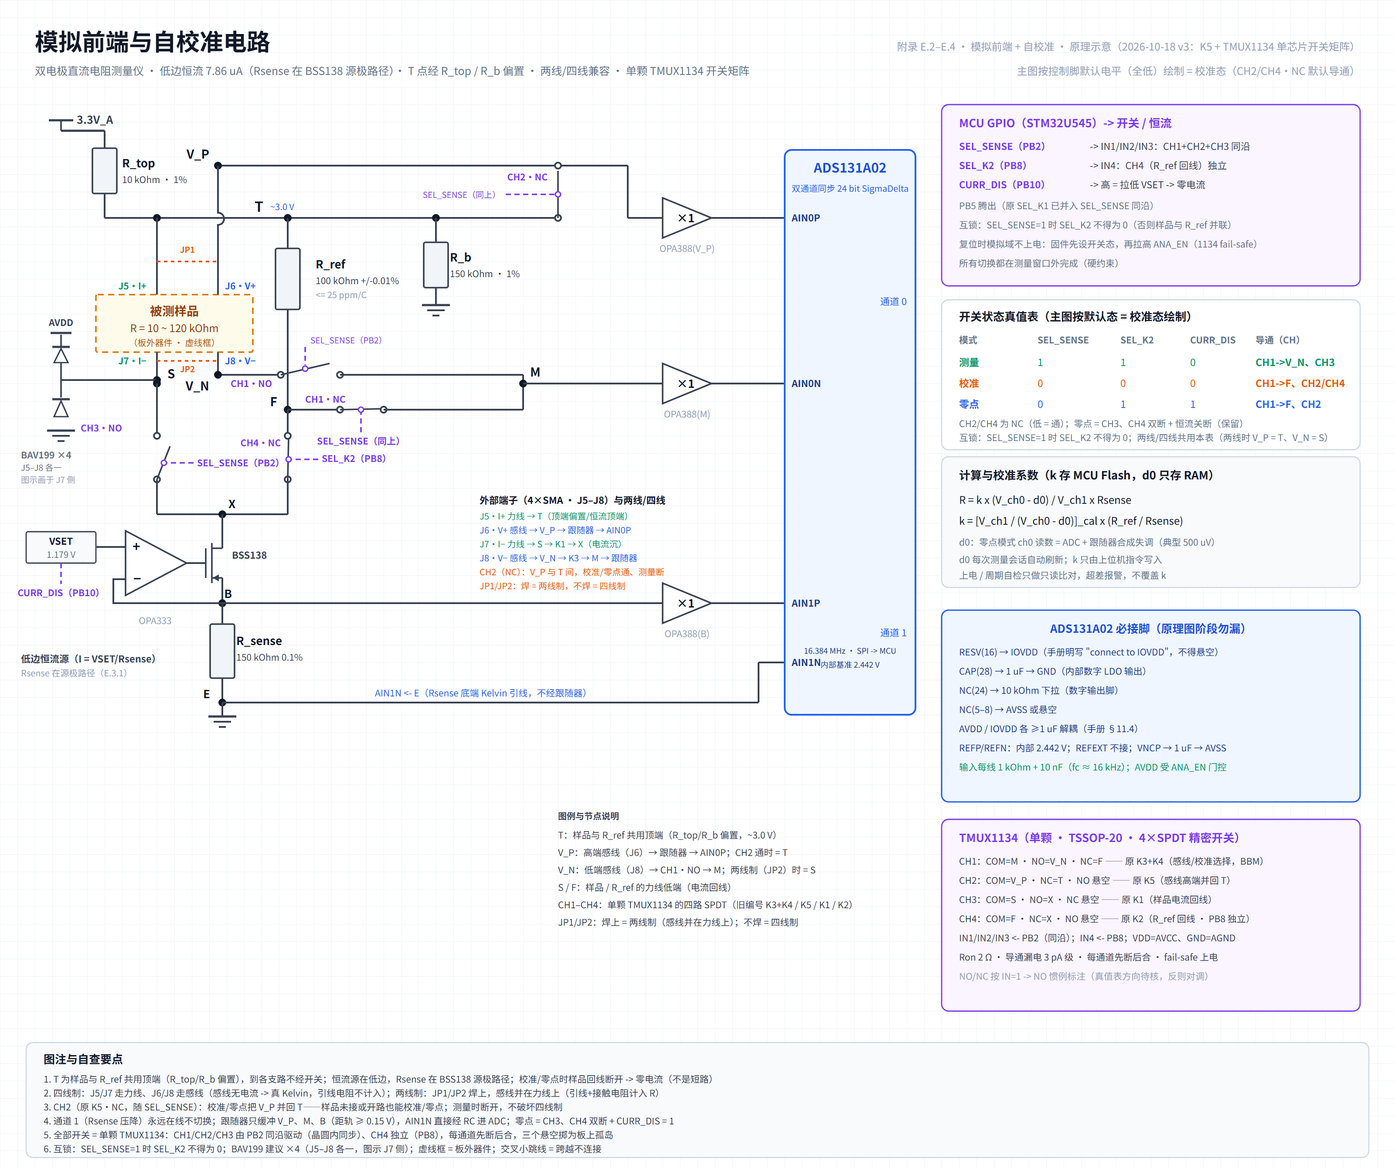
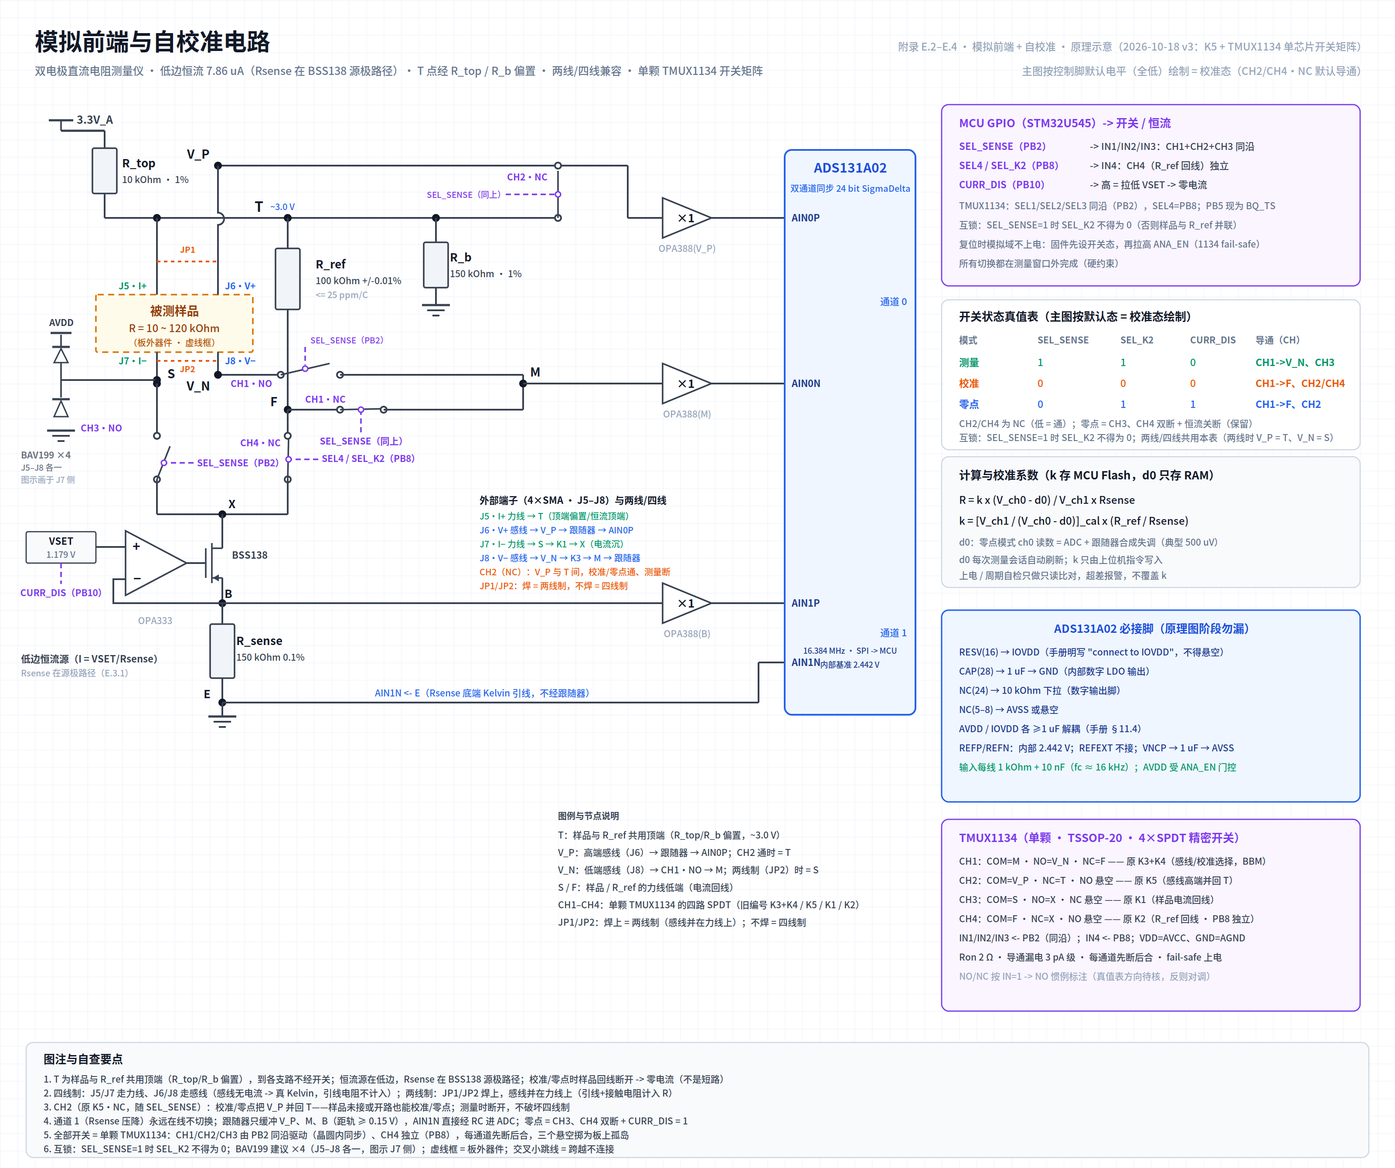
docs: 引脚二次重排与抗混叠 B 案全局回填——消除旧值残留
权威源：docs/design/pin-assignment.md（2026-10-20 v3 + 同日二次重排）、E.4.4（AAF B 案）

引脚回填（旧 PA8/PA9/PA10 → PA1/PA2/PA3；LPUART1 → USART1）：
- pin-assignment.md 自身：§2 ADS131A02 引脚表（DRDY/nRESET/DONE 三条仍是
  旧 PA9/PA8/PA10，与 §1.1 矛盾）+ §5 ADS_DONE(PA10→PA1)、USB 撤销注记
- CUBEMX_SETUP.md：§2.2 LPUART1 整节改为 USART1(PA9/PA10, AF7)；§3.4 NVIC
  EXTI9_8→EXTI3、LPUART1→USART1；§4.1 ADC_nRESET PA8→PA2、PB5 SEL_K1→BQ_TS；
  §4.2 ADC_DRDY PA9→PA3、新增 PA1 ADC_DONE；§4.3 复用表；§4.4 不配置表
- AGENTS.md / HANDOFF.md / docs/design/README.md / 根 README.md：引脚速览、
  示意图状态说明、待办 #10
- 示意图：整体方案框图（PA9(DRDY)→PA3、SEL_K1/SEL_K2→SEL1-3/SEL4、
  TMUX110x×4→TMUX1134×1、K1–K4 整合说明）、模拟前端与自校准（SEL4 标注、
  TMUX1134 说明）；两图 svg_schematic_check 均 PASS，@2x.png 重渲染

TMUX1134 整合回填（2026-10-18 既成定稿，文档仍写分立方案）：
- 主文档 E.3.1/E.3.2：器件表改单颗 TMUX1134（SEL1/2/3=PB2、SEL4=PB8），
  模式表列名同步，原 TMUX1101/1102 行保留删除线备查
- sim README 真实器件模型表同步

抗混叠 B 案回填（旧 1 kΩ+10 nF 已废）：
- pin-assignment §2 加 B 案三级阶梯注（6.19+68n→6.04+68n→13.7+27n+12n 差分，
  fc≈80 kHz，R·C 异向配对 BOM 工序）；§4 J6 注
- HANDOFF 前端段、docs/design/README 图注（抗混叠已另立专图）

fs2 群时延复核：旧 15 µs 基于 1k+10n（τ=10 µs）；B 案 Σ R·C≈1.2 µs 小一个
数量级，15 µs 仍偏保守，±0.045% 幅度结论与 AAF 参数无关（比值抵消）→ 无需重跑

diff --git a/docs/design/pin-assignment.md b/docs/design/pin-assignment.md
@@ -58,7 +58,7 @@
 | | **PB5** | BQ_TS | Q1(BSS138) 栅极门控：**高 = 旁路 TS 的 NTC**（无 NTC 电池可充电），默认低（R13 100 kΩ 下拉）= NTC 使能；**2026-10-20 新增（SEL_K1 腾出转予）** |
 | | PB4 | ISET_HI | BQ24040 充电电流切换（500 mA ↔ 1 A），默认**低**；判据见 E.8.4 勘误。⚠ **复位期不是低**：Table 27 **注 4** 说 PB4 复位后为 NJTRST 复用**且内部上拉使能**（高阻+上拉，上拉阻值 DS14216 未载）→ "复位默认 500 mA"须由**外部下拉（明显强于内部上拉）或反相驱动**保证，**原理图阶段必核**（见 E.8.4） |
 | **USB FS（Device，外设 USB_DRD_FS）** | PA11 / PA12 | DM / DP | AF10 固定复用，FT_u 由 VDDUSB 供电；设备模式片内支持 BC1.2 BCD（DS14216 §3.47，见主文档 E.8.4） |
-| | ~~PA9~~ | ~~VBUS~~ | ❌ **撤销**：本芯片 USB 无 VBUS sensing（CubeMX 无此项）；PA9 已改作 ADC_DRDY（见上） |
+| | ~~PA9~~ | ~~VBUS~~ | ❌ **撤销**：本芯片 USB 无 VBUS sensing（CubeMX 无此项）；PA9 现为 USART1_TX（见下） |
 | **I²C1（TMP117 四线探头）** | PB6 / PB7 | SCL / SDA | AF4，4.7 kΩ 上拉在主板侧 |
 | | ~~PB8~~ | ~~ALERT~~ | ❌ 取消（探头仅 VDD/GND/SDA/SCL），PB8 转予 SEL_K2 |
 | **调试日志（USART1）** | **PA9 / PA10** | USART1 TX / RX | AF7；**2026-10-20 由 LPUART1(PA2/PA3) 改**——与 SWD(PA13/14)、SWO(PB3) 同侧组成右侧调试区，J3 扩为 8P；115200。**U545 无 USART2** 不受影响（USART1 独立存在，DS14216 §3.32） |
@@ -121,17 +121,24 @@
 
 | 引脚 | 连接 | 说明 |
 | --- | --- | --- |
-| AIN0P | OPA388(T) 输出 → 1 kΩ + 10 nF | 通道 0 正：T 点电压 |
-| AIN0N | OPA388(S) 输出 → 1 kΩ + 10 nF | 通道 0 负：S 点电压（经 K3） |
-| AIN1P | OPA388(B) 输出 → 1 kΩ + 10 nF | 通道 1 正：B 点电压 |
-| AIN1N | E 点（Rsense 底端）→ 1 kΩ + 10 nF | 通道 1 负：Kelvin 引线，不经跟随器 |
+| AIN0P | OPA388(T) 输出 → **AAF B 案**（见下注） | 通道 0 正：T 点电压 |
+| AIN0N | OPA388(S) 输出 → **AAF B 案** | 通道 0 负：S 点电压（经 K3） |
+| AIN1P | OPA388(B) 输出 → **AAF B 案** | 通道 1 正：B 点电压 |
+| AIN1N | E 点（Rsense 底端）→ **AAF B 案** | 通道 1 负：Kelvin 引线，不经跟随器 |
 | SCLK | PA5（SPI1 SCLK） | — |
 | DIN | PA7（SPI1 MOSI） | — |
 | DOUT | PA6（SPI1 MISO） | — |
 | nCS | PA4（GPIO） | — |
-| DRDY | **PA9**（EXTI9） | 下降沿中断（**二轮复核改**：原 PC4 未引出） |
-| DONE | **PA10**（GPIO 输入，可选） | 通信帧完成指示，低有效输出；异步中断模式下可不接用（**2026-10-20 新增**） |
-| nRESET | **PA8**（GPIO） | 低有效，脉宽 ≥800 ns |
+| DRDY | **PA3**（**EXTI3**） | 下降沿中断，内部上拉（**2026-10-20 二次重排**：原 PA9；EXTI0/1/15 已占，EXTI3 空闲） |
+| DONE | **PA1**（GPIO 输入，可选） | 通信帧完成指示，低有效输出；异步中断模式下可不接用（**2026-10-20 二次重排**：原 PA10） |
+| nRESET | **PA2**（GPIO） | 低有效，脉宽 ≥800 ns（**2026-10-20 二次重排**：原 PA8） |
+
+> **每线抗混叠 = AAF B 案三级无源阶梯（E.4.4 定版，2026-10-19）**：
+> `6.19 Ω + 68 nF → 6.04 Ω + 68 nF → 13.7 Ω + 27 nF（对地，C0G）+ 末级 12 nF 差分`；
+> R 全 E96 1%（ΣR=25.93 Ω），fc ≈ 80 kHz，建立 ≤30.1 µs（73 Ω–600 kΩ 十六点）。
+> **两线须按 R·C 乘积异向配对**（R×(1+m) 配 C×(1−m)）：1% 单体不配对 CMRR 仅 48.5 dB、配对后 95.5 dB——
+> **BOM 必须加配对工序**。定版图 `docs/design/diagram/抗混叠滤波电路.svg`。
+> ~~原 1 kΩ + 10 nF（fc 15.9 kHz）~~ 已作废：与 16 kHz 扫频上限重叠，通带边缘衰减 ~3 dB。
 | XTAL1 / XTAL2 | 16.384 MHz 晶振 | 负载电容按手册 Figure 36b |
 
 ### 必接脚（原理图阶段勿漏）
@@ -202,7 +209,7 @@ RON ≈90 mΩ typ / 110 mΩ max @3.6 V·25 ℃ → 100 mA 写瞬态压降 ≤11 
 | 端子 | 网络 | 说明 |
 | --- | --- | --- |
 | **J5 · I+** | T（顶端偏置 ~3.0 V） | 经 R_top 10 kΩ 接 3.3V_A；**力线** |
-| **J6 · V+** | OPA388(T) 输入（经 1 kΩ+10 nF） | **感线**；与 J5 同夹 = Kelvin 夹 A |
+| **J6 · V+** | OPA388(T) 输入（经 AAF B 案） | **感线**；与 J5 同夹 = Kelvin 夹 A |
 | **J7 · I−** | K1/K2 公共端 → X | **力线**回线（样品 / R_ref） |
 | **J8 · V−** | K3/K4 公共端 → M | **感线**；与 J7 同夹 = Kelvin 夹 B |
 | **JP1** | J5 ↔ J6 | 0 Ω 0603 / 插针：**焊上 = 两线制**（只接 J5、J7） |
@@ -258,7 +265,7 @@ RON ≈90 mΩ typ / 110 mΩ max @3.6 V·25 ℃ → 100 mA 写瞬态压降 ≤11 
 | VSET | 360 kΩ/200 kΩ 分压 | OPA333 + → BSS138 Gate | 1.179 V |
 | CURR_DIS | PB10 | BSS138 关断控制 | 高 = 关断（EDA 网名 `CURR` 建议改 `CURR_DIS`） |
 | **BQ_TS** | **PB5** | Q1(BSS138) 栅极 | 高 = 旁路 TS NTC（无 NTC 电池可充电）；默认低 = NTC 使能（R13 100 kΩ 下拉）；**2026-10-20 新增** |
-| **ADS_DONE** | U7-18 → **PA10** | 帧完成指示（可选） | 低有效输出，可不接用；**2026-10-20 新增** |
+| **ADS_DONE** | U7-18 → **PA1** | 帧完成指示（可选） | 低有效输出，可不接用；**2026-10-20 新增，二次重排后落 PA1** |
 | ANA_EN | **PB15** | TPS7A2033 EN | 高 = 模拟域上电（**二轮复核改**：原 PB12 未引出） |
 | **SD_PWR_EN** | **PB13** | **TPS22917 EN** | 高 = TF 卡上电，默认低（EN 内置下拉，复位浮空 = 断电） |
 | **VBUS_MON** | VBUS 分压中点 | **PC1**（ADC） | 比 0.5；阈值 3.70 V |

diff --git a/firmware/DE-DRM/CUBEMX_SETUP.md b/firmware/DE-DRM/CUBEMX_SETUP.md
@@ -83,18 +83,19 @@
   - NSS：**Disabled (Software)** ← 片选走 PA4 GPIO
   - NSSP Mode：Disabled
 
-### 2.2 LPUART1 — 调试日志（🟥 当前 IOC 完全没有）
+### 2.2 USART1 — 调试日志（🟥 当前 IOC 完全没有）
 
-- [ ] Mode：**Asynchronous**（自动占 PA2/PA3）
+- [ ] Mode：**Asynchronous**（自动占 **PA9/PA10**）
 - [ ] Baud Rate **115200** / Word Length 8 / Stop 1 / Parity None / Flow Control None / Mode TX/RX
-- [ ] ⚠ **是 LPUART1 不是 USART2**：**U545 全片无 USART2**（DS14216 §3.32：USART1/3 + UART4/5 + LPUART1），
-  PA2/PA3 上是 LPUART1_TX/RX（AF8）；LPUART 在 Stop 模式也可唤醒
+- [ ] ⚠ **2026-10-20 二次重排：由 LPUART1(PA2/PA3) 改为 USART1(PA9/PA10, AF7)**——与 SWD(PA13/14)、
+  SWO(PB3) 同侧组成右侧调试区，J3 由 6P 扩为 8P（§ 4 J3 表）；PA2/PA3 让给 ADC_nRESET/ADC_DRDY。
+  原 LPUART1 配置作废，GUI 里**删除 LPUART1、新增 USART1**。
 
 ### 2.3 USB（USB_DRD_FS）— Type-C 数据上行（🟥 当前 IOC 完全没有）
 
 - [ ] Mode：**Device only**（外设为 USB_DRD_FS，device/host 双角色；本设计用 device）
 - [ ] 引脚自动占用：**PA11(DM) / PA12(DP)**
-- [ ] **SOF 不占引脚**：CRS 用**内部 SOF 信号**同步（E.10 #15 已销号）；PA8=ADC_nRESET 无冲突
+- [ ] **SOF 不占引脚**：CRS 用**内部 SOF 信号**同步（E.10 #15 已销号）；PA8 已转预留、ADC_nRESET=PA2，无冲突
 - [ ] **VBUS sensing：无此选项**（STM32U5 的 USB 不提供；勿再找）
   → USB 在线检测改走 **PC1 的 ADC**（见 § 2.6）
 - [ ] **BC1.2 BCD**：U545 设备模式**片内支持**（DS14216 §3.47 末条）——E.8.4 的 DCP 判 1 A 依赖它；
@@ -169,10 +170,10 @@
 |---|---|---|---|
 | **EXTI15_10** | ✓ | **4** | PA15 SD_CD |
 | **SDMMC1** | ✓ | **4** | 持续写吞吐敏感，优先级最高 |
-| EXTI9_8 | ✓ | 5 | PA9 ADC_DRDY |
+| **EXTI3** | ✓ | 5 | PA3 ADC_DRDY |
 | SPI1 | ✓ | 6 | ADS131A02 |
 | I2C1 event / error | ✓ | 7 | TMP117 |
-| LPUART1 | ✓ | 8 | 调试日志 |
+| **USART1** | ✓ | 8 | 调试日志（PA9/PA10, AF7） |
 | USB | ✓ | 9 | USB（USB_DRD_FS） |
 | ADC1 | ✓ | 10 | 电池/VBUS 监测 |
 | SysTick | ✓ | **15** | HAL 时基，最低 |
@@ -192,10 +193,10 @@
 | 引脚 | Label | Pin state | 备注 |
 |---|---|---|---|
 | PA4 | ADC_nCS | **High** | 片选空闲高 |
-| 🆕 **PA8** | **ADC_nRESET** | **High** | **原 PB0**；低有效，脉宽 ≥800 ns |
+| 🆕 **PA2** | **ADC_nRESET** | **High** | **原 PB0→PA8→PA2**（2026-10-20 二次重排，就近 ADC 簇）；低有效，脉宽 ≥800 ns |
 | PB2 | SEL_SENSE | **Low** | TMUX 测量线对 |
 | PB4 | ISET_HI | **Low** | 500 mA 默认充电电流。🟥 **复位期不是 Low**：DS14216 Table 27 **注 4** —— PB4 复位后为 NJTRST 复用**且内部上拉使能**（高阻+上拉），到固件初始化才变 Low；**CubeMX 里勾 Low 只决定初始化后的电平，管不到上电瞬间**。故"复位默认 500 mA"须靠**外部下拉（明显强于内部上拉，阻值待 RM0456 给 RPU 后定）**或反相驱动保证 → 见主文档 E.8.4 与 § 8 排障 |
-| 🆕 **PB5** | **SEL_K1** | **Low** | **原 PC5**；K1（NO），高 = 通 |
+| 🆕 **PB5** | **BQ_TS** | **Low** | **原 SEL_K1 已取消**（TMUX1134 整合）；Q1 栅极门控：高 = 旁路 TS NTC，默认低（R13 100 kΩ 下拉）= NTC 使能 |
 | PB10 | CURR_DIS | **Low** | 高 = 关断；复位默认开启 |
 | 🆕 **PB15** | **ANA_EN** | **Low** | **原 PB12**（LQFP64_SMPS 未引出）；TPS7A2033 EN；smart pulldown，复位即断模拟域 |
 | 🆕 **PB13** | **SD_PWR_EN** | **Low** | **TF 卡默认断电**（省 50–100 µA）；仅 `f_mount`/sync 后才允许拉低 |
@@ -217,7 +218,8 @@
 |---|---|---|---|---|
 | PA0 | MEAS_BTN | **GPXTI0** | **Pull-up** | Falling |
 | PB1 | PWR_BTN | **GPXTI1** | **Pull-up** | Falling |
-| 🆕 **PA9** | **ADC_DRDY** | **GPXTI9** | **Pull-up** | **Falling**（DRDY 拉低 = 数据就绪；**原 PC4 未引出**；PA1 因 EXTI1 被 PB1 占用出局） |
+| 🆕 **PA3** | **ADC_DRDY** | **GPXTI3** | **Pull-up** | **Falling**（DRDY 拉低 = 数据就绪；**2026-10-20 二次重排**，原 PC4→PA9→PA3；EXTI0/1/15 已占，EXTI3 空闲已核） |
+| 🆕 **PA1** | **ADC_DONE** | **GPIO_Input** | **No Pull** | —（U7-18 DONE 帧完成指示，低有效，可选监视；**2026-10-20 新增，二次重排后落 PA1**） |
 | 🆕 **PA15** | **SD_CD** | **GPXTI15** | **Pull-up** | Falling（插卡拉低；**原 PB9 未引出**；PA15 复位默认 JTDI，SWD 模式可作 GPIO；Table 27 注 4 说它复位期**内部上拉已使能**，与本设计所需方向一致，无冲突） |
 
 > 🟥 **PA0 / PB1 当前 IOC 没设 Pull-up → CubeMX 黄灯**。
@@ -230,7 +232,7 @@
 
 | 引脚 | 信号 | 来自 |
 |---|---|---|
-| PA2 / PA3 | LPUART1_TX/RX（AF8） | § 2.2 |
+| **PA9 / PA10** | **USART1_TX/RX（AF7）** | § 2.2（2026-10-20 由 LPUART1 改，J3 扩 8P） |
 | PA5 / PA6 / PA7 | SPI1_SCK/MISO/MOSI | § 2.1 |
 | PA11 / PA12 | USB_DM/DP（USB_DRD_FS） | § 2.3 |
 | PA13 / PA14 / PB3 | SWDIO / SWCLK / SWO | § 3.1 |
@@ -242,7 +244,7 @@
 
 ### 4.4 不配置（保持 Reset State 即正确）
 
-PA1（WKUP3 预留）、PA10、PB0、**PC13**、PD 其余。
+**PA8**（预留）、PB0（预留）、**PC13**、PD 其余。（PA1 已改 ADC_DONE、PA9/PA10 已改 USART1，均不再"不配置"）
 
 > 原 SPI2 预留组四脚已全部用尽（2026-10-14 二轮复核后）：PB9/PB12 在 LQFP64_SMPS 根本未引出；
 > PA15→SD_CD、PB15→ANA_EN、PB14→LED_ORANGE。预留仅剩 PA1/PA10/PB0。

diff --git a/docs/design/HANDOFF.md b/docs/design/HANDOFF.md
@@ -38,23 +38,26 @@
   采样策略：**冲击全程 128 kSPS 采满、按需数字降采样**（E.4.3）
 - 前端：**3 颗跟随器 OPA388**（T、M、B 三线；AIN1N 直接经 RC 接 Rsense 底端）；
   T 点顶端偏置 R_top 10 kΩ / R_b 150 kΩ（E.2）；保护 BAV199（默认）/ 低漏电 ESD 阵列（备选焊盘）；
-  抗混叠 RC = 每线 1 kΩ + 10 nF（fc≈16 kHz）
-- 自校准：0.1% Rsense 打底 + 板上 R_ref（100 kΩ 0.01%）自检，**TMUX1101×2+TMUX1102×2 切换**；
-  **零点模式**消 ADC 失调（**SEL_K1 = PB5、SEL_K2 = PB8**、SEL_SENSE = PB2；2026-10-14 重排，原 PC5/PC3）；
+  抗混叠 = 每线 **B 案三级阶梯** 6.19 Ω+68 nF → 6.04 Ω+68 nF → 13.7 Ω+27 nF（对地）+ 末级 12 nF 差分，
+  fc≈80 kHz（E.4.4，2026-10-19 定版；旧 1 kΩ+10 nF 已于同日作废：与 16 kHz 扫频带重叠）
+- 自校准：0.1% Rsense 打底 + 板上 R_ref（100 kΩ 0.01%）自检，**单颗 TMUX1134 切换**（SEL1/2/3=PB2、SEL4=PB8）：
+  **零点模式**消 ADC 失调（**SEL1/2/3 = PB2 同沿、SEL4 = PB8**；2026-10-18 TMUX1134 整合，原 SEL_K1/SEL_K2 分立方案作废）；
   δ0 只存 RAM，k 只由上位机写 Flash（电路见 E.3 + diagram/模拟前端与自校准）
 - **MCU：STM32U545RET6Q**（M33 160 MHz、512 KB Flash、**274 KB SRAM**、USB FS 双角色（DRD）、LQFP-64、
   **SMPS 版但本设计不启用内部 SMPS**；数据手册 **DS14216**，**不是 U575 的 DS13737**）
   ⚠ 曾一度定 U575RGT6 / 误写 U575RET6Q，**均已作废**，现为 U545RET6Q
-- **引脚 2026-10-14 全表重排 + 二轮复核**（原则：**通信 AF 不动 + 辅助 GPIO 同端口聚堆**；
-  二轮复核按 DS14216 Table 27/28 逐行核——**LQFP64_SMPS 无 PC4/PC5/PB9/PB12**）：
-  - ADC 簇 PA4(nCS)/PA5(SCK)/PA6(MISO)/PA7(MOSI)/**PA8(nRESET)** + **PA9(DRDY, EXTI9)**
-    （原 PC4 未引出；PA1 因 EXTI1 被 PB1 占用出局）
+- **引脚 2026-10-14 全表重排 + 二轮复核 + 2026-10-20 v3 重分配 + 同日二次重排（就近原则）**
+  （原则：**通信 AF 不动 + 辅助 GPIO 同端口聚堆 + 封装就近**；权威表 = `docs/design/pin-assignment.md`；
+  **LQFP64_SMPS 无 PC4/PC5/PB9/PB12**）：
+  - **ADC 簇 PA1–PA7 物理连续（封装 15–23 脚）**：**PA1(ADC_DONE)/PA2(nRESET)/PA3(DRDY, EXTI3)**
+    + PA4(nCS)/PA5(SCK)/PA6(MISO)/PA7(MOSI)（原 PA8/PA9/PA10 与 SPI1 簇封装对角，违背就近原则已让出）
+  - **调试口 = USART1(PA9/PA10, AF7)**（2026-10-20 由 LPUART1(PA2/PA3) 改，与 SWD 同侧、J3 扩 8P）
   - 内部 ADC 监测：**PC0 = VBAT_MON（ADC1_IN1）**、**PC1 = VBUS_MON（ADC1_IN2）**（+ VREFINT 反推 VDDA）；
     高阻源合法（100 nF 节点电容 ≫ 2^12×CADC），固件须 ≥100 ms 级轮询
   - **SDMMC1 4-bit：PC8/PC9/PC10/PC11 = D0–D3、PC12 = CK、PD2 = CMD**（全手册仅此一组映射）；
     **PA15 = SD_CD**（EXTI15；原 PB9 未引出，PA15 复位默认 JTDI、SWD 模式可作 GPIO）、
     **PB13 = SD_PWR_EN**（默认低 = 卡断电）
-  - TMUX 簇 PB2(SEL_SENSE)/PB5(SEL_K1)/PB8(SEL_K2)
+  - TMUX 簇 **PB2(SEL1/2/3 同沿)**/PB8(SEL4)（单颗 TMUX1134）；**PB5 = BQ_TS**（原 SEL_K1 腾出）
   - 恒流/电源 PB10(CURR_DIS)、**PB15(ANA_EN**——原 PB12 未引出**)**、PB4(ISET_HI，⚠ 复位期是 NJTRST+内部上拉，非 Low →
     默认 500 mA 需外部下拉保证，Table 27 注 4，见 E.8.4)
   - LED 簇 **PC2/PC3/PB14/PC6 = 绿/黄/橙/红、PC7 = PWR_LED**（原 PC5 未引出，橙灯改 PB14）
@@ -144,8 +147,8 @@
   ② ADC 采样时间**离散档手册未载** → 转 #17④；③ 上条 PB4 复位态。
   同时证实：**USART2 在 DS14216 全文 0 命中**、PC0=IN1/PC1=IN2、PA0=WKUP1/PB1=WKUP4/PA1=WKUP3、
   AF 号 SPI1=5 / SDMMC=12 / USB=10 / I2C1=4 / LPUART1=8、PC13-15 经 VSW（3 mA、≤30 pF、≤2 MHz、不得驱动 LED）
-- **示意图已返工完毕（2026-10-17）**：`diagram/` 四张图的引脚标注（SEL_K1(PC5)/SEL_K2(PC3)/"PC6-9 · PA8 (PWR)"/DRDY(PC4)/SD_CD(PB9)）
-  已全部按新 E.6 与手册值对齐（ANA_EN=PB15、DRDY=PA9、SEL_K1=PB5/SEL_K2=PB8、LED 簇 PC2/3/PB14/6+PC7、SD_CD=PA15；恒流源 VSET 1.179 V / 7.86 µA；电源树新增 3V3_SD 支路、整体框图新增 TF 卡支路）；交付必跑
+- **示意图已返工（2026-10-17）；2026-10-20 二次重排后待再核**：`diagram/` 各图的引脚标注（2026-10-17 修的是 SEL_K1(PC5)/SEL_K2(PC3)/"PC6-9 · PA8 (PWR)"/DRDY(PC4)/SD_CD(PB9)）
+  已按 E.6 与手册值对齐（ANA_EN=PB15、**DRDY=PA3·EXTI3（2026-10-20 二次重排）**、SEL1/2/3=PB2/SEL4=PB8（TMUX1134）、LED 簇 PC2/3/PB14/6+PC7、SD_CD=PA15；恒流源 VSET 1.179 V / 7.86 µA；电源树新增 3V3_SD 支路、整体框图新增 TF 卡支路）；交付必跑
   `python3 tools/svg_schematic_check.py <图>.svg` 且分区放大目视
 
 ## 下一步（建议顺序）

diff --git a/hardware/sim/ccsource/README.md b/hardware/sim/ccsource/README.md
@@ -60,7 +60,7 @@ I(Vsm)=+7.857 µA、CURR_DIS 关断残流 0.163 µA、恢复 1 µs（PULSE 5–1
 - `models.inc`——行为级模型：OPA333 宏（Aol=2e6→GBW 350 kHz、输出钳位）与线性版（暂态用）；
   BSS138 level-1（VTO 1.25 V 典型）。**拓扑级保真度**，非厂商宏模型。
   2026-10-13/14 增补：`opa391t3`（OPA391 评估，GBW 1MHz）、`opa388t`（跟随器，GBW 10MHz/RRIO）、
-  `swNO`（TMUX1101/1102 行为级：Ron 2Ω/断态 60GΩ=50pA@3V）、`swsh`（采样保持开关）
+  `swNO`（TMUX 行为级，Ron 2Ω/断态 60GΩ=50pA@3V；2026-10-18 起实物为**单颗 TMUX1134**，开关行为等价）、`swsh`（采样保持开关）
 - `cca.tpl` / `ccb.tpl`——两种拓扑模板；`cca_tran.net`——CURR_DIS 暂态
 - `cc4_*_opa391.net`——OPA391 对照套件；`cc5_*`/`cc6_*`——10kHz 纹波/斩波；`cc7_*`——100ns 冲击；
   `cc8_ramp10ms.net`——10ms 斜坡；`cc10_rate_*.net`——变化率拐点；`cc11_noise.net`——噪声谱
@@ -128,8 +128,8 @@ I(Vsm)=+7.857 µA、CURR_DIS 关断残流 0.163 µA、恢复 1 µs（PULSE 5–1
 | --- | --- |
 | U1 OPA333 | ⚠ **TI 官方 OPAx333.LIB（SBOC084G Rev.G）在 LTspice 判不可用**：DC OP 收敛失败，或收敛到**非物理解**（I=+23.3uA，理论 7.857；V(b)=nan）——1F 级建模电容+浮地 MID 节点与 LTspice 求解器不兼容。官方宏接入结构与 wrapper 保留在 models.inc/OPAx333.LIB 备用；**仿真结论以行为宏 opa333t3 为准**。如需官方宏级验证用免费 PSpice for TI |
 | M1/M2 BSS138 | 🔸 onsemi 官方模型反爬未获取（直链 403/Nexperia 加密/Wayback 无存档），暂用 `nmosb` 行为级（VTO/KP/电容按手册） |
-| K1-K4 TMUX1101/1102 | 🔸 TMUX1101 官方 PSpice（SCDM242）已接入实测：**网表连接正常但开关不导通**（环路失效，I=0.15uA 恒定）——TI SCHEMATIC 导出的开关模型在 LTspice 存在兼容性问题，待查（或 PSpice for TI 验证）。暂回退 2Ω 电阻（Ron 已含） |
-| TMUX1102 | 🔸 TI 仅提供 IBIS（SCDM225），无 PSpice；行为等效 TMUX1101（NO/NC 仅控制极性） |
+| K1-K4 | 🔸 实物已整合为**单颗 TMUX1134**（2026-10-18，替换原 TMUX1101×2+TMUX1102×2）；仿真仍用 `swNO` 行为级。TMUX1101 官方 PSpice（SCDM242）曾接入实测：网表连接正常但开关不导通（I=0.15uA 恒定）——TI 导出模型与 LTspice 兼容性问题，未解决。2Ω 电阻/行为开关等效已足够（Ron 已含） |
+| TMUX1134 | 🔸 无官方 PSpice；按 `swNO` 行为级（SEL1/2/3 同沿、SEL4 独立）等效 |
 
 
 

diff --git a/AGENTS.md b/AGENTS.md
@@ -187,7 +187,7 @@
 | 标注 | 全中文；图底部固定「图注与自查要点」区，逐条对应需求自查项 |
 | 符号 | 电阻用 IEC 矩形；SPST 用刀臂开合区分 NO/NC；运放/缓冲用三角形；标准接地/电源/连接器符号 |
 | 布线 | 正交 + 直角转角；不连接处画小跳线；**结点用实心圆**，器件端子与开关控制脚用**白底圆**（避免被读成短路） |
-| 未定稿内容 | 未定稿的引脚号/参数不写进图（引脚分配已于 **2026-10-14 重排定稿 + 二轮复核**见 E.6，**2026-10-20 v3 重分配**，新图按新表写：SEL_SENSE=PB2（TMUX1134 SEL1/2/3）、SEL_K2=PB8（SEL4）、BQ_TS=PB5、ADC_nRESET=PA8、**ADC_DRDY=PA9、ADC_DONE=PA10、SD_CD=PA15、ANA_EN=PB15**、LED 簇 **PC2/3/PB14/6 + 状态 PC7**、SDMMC PC8–PC12+PD2 等；仍未定稿的如 E.10 细项照此原则）。**✅ 五张图已按新 E.6 复核修正（2026-10-17）：SEL_K1(PC5)/SEL_K2(PC3)/"PC6-9 · PA8 (PWR)"/DRDY(PC4) 等旧标注已全部改对；电源树补 3V3_SD 支路、整体框图补 TF 卡支路** |
+| 未定稿内容 | 未定稿的引脚号/参数不写进图（引脚分配已 **2026-10-14 重排定稿 + 二轮复核**、**2026-10-20 v3 重分配 + 同日二次重排（就近原则）**，权威表 = `docs/design/pin-assignment.md`，新图按该表写：**ADC 簇 PA1–PA7 物理连续**（ADC_DONE=PA1、nRESET=PA2、DRDY=PA3·EXTI3、nCS=PA4、SPI1=PA5/6/7）、调试=**USART1(PA9/PA10, AF7)**、SEL_SENSE=PB2（TMUX1134 SEL1/2/3）、SEL_K2=PB8（SEL4）、BQ_TS=PB5、SD_CD=PA15、ANA_EN=PB15、LED 簇 **PC2/3/PB14/6 + 状态 PC7**、SDMMC PC8–PC12+PD2、预留 PA8/PB0；仍未定稿的如 E.10 细项照此原则）。**✅ 五张图已按 E.6 复核修正（2026-10-17）；⚠ 2026-10-20 二次重排后 ADC 控制簇（PA1/PA2/PA3 取代 PA8/PA9/PA10）与 USART1 调试口变更需再核图** |
 
 ### 三个必踩的坑（都已实测）
 
